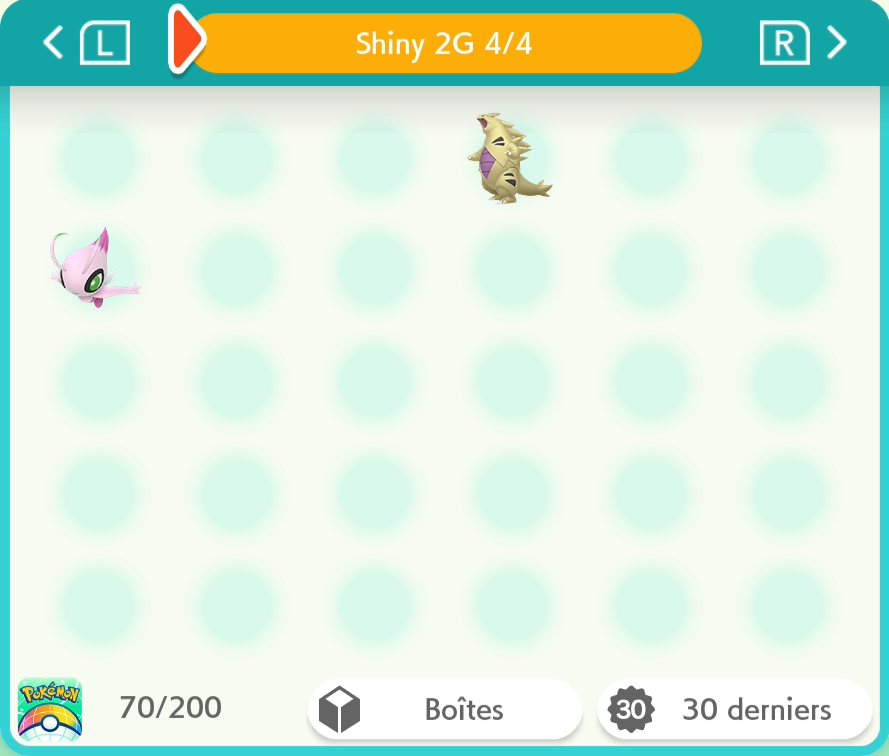
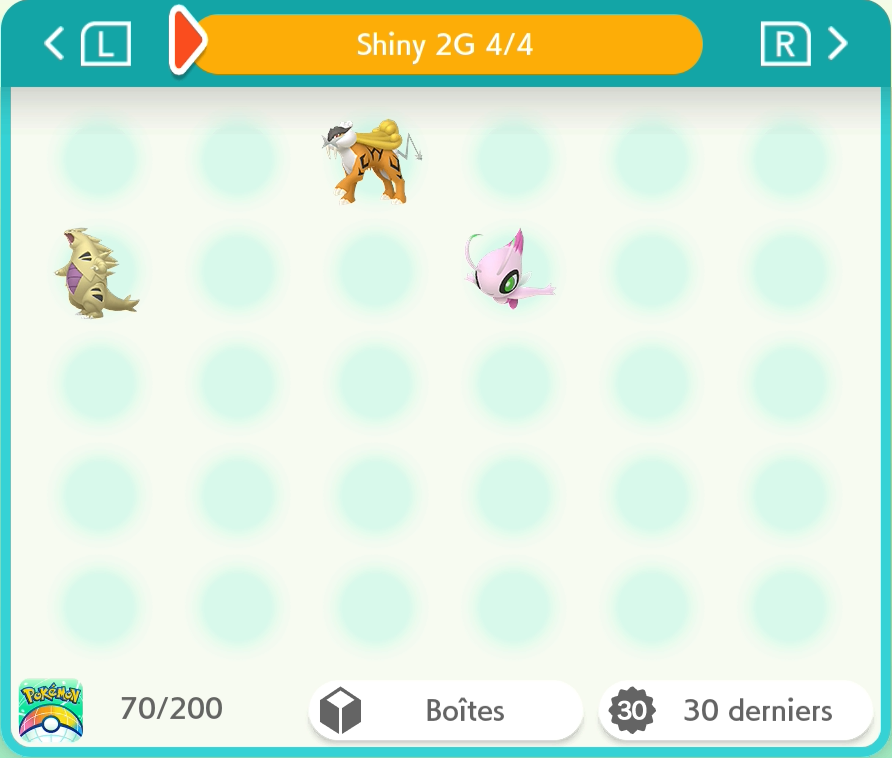
2G : Raikou

diff --git a/README.md b/README.md
@@ -2,13 +2,13 @@
 
 Pokémon-Elément-Sh -> <a href="https://www.pokemon-element-sh.fr/profil/karyno21" target="_blank">Karyno21</a>
 
-↓ Dernière Update le 16/09/2026 à 19h45 ↓
-### Dex National [270/999] +9
+↓ Dernière Update le 17/09/2026 à 9h15 ↓
+### Dex National [271/999] +10
 
 | Gen | Prog | Notes |
 |:--:|:--:|---|
 |1G|45/151|+3 Artikodin, Électhor & Sulfura|
-|2G|33/100|+1 Celebi|
+|2G|34/100|+2 Celebi & Raikou|
 |3G|22/135|+1 Spinda|
 |4G|20/107||
 |5G|29/154|+1 Genesect (JP Event)|
